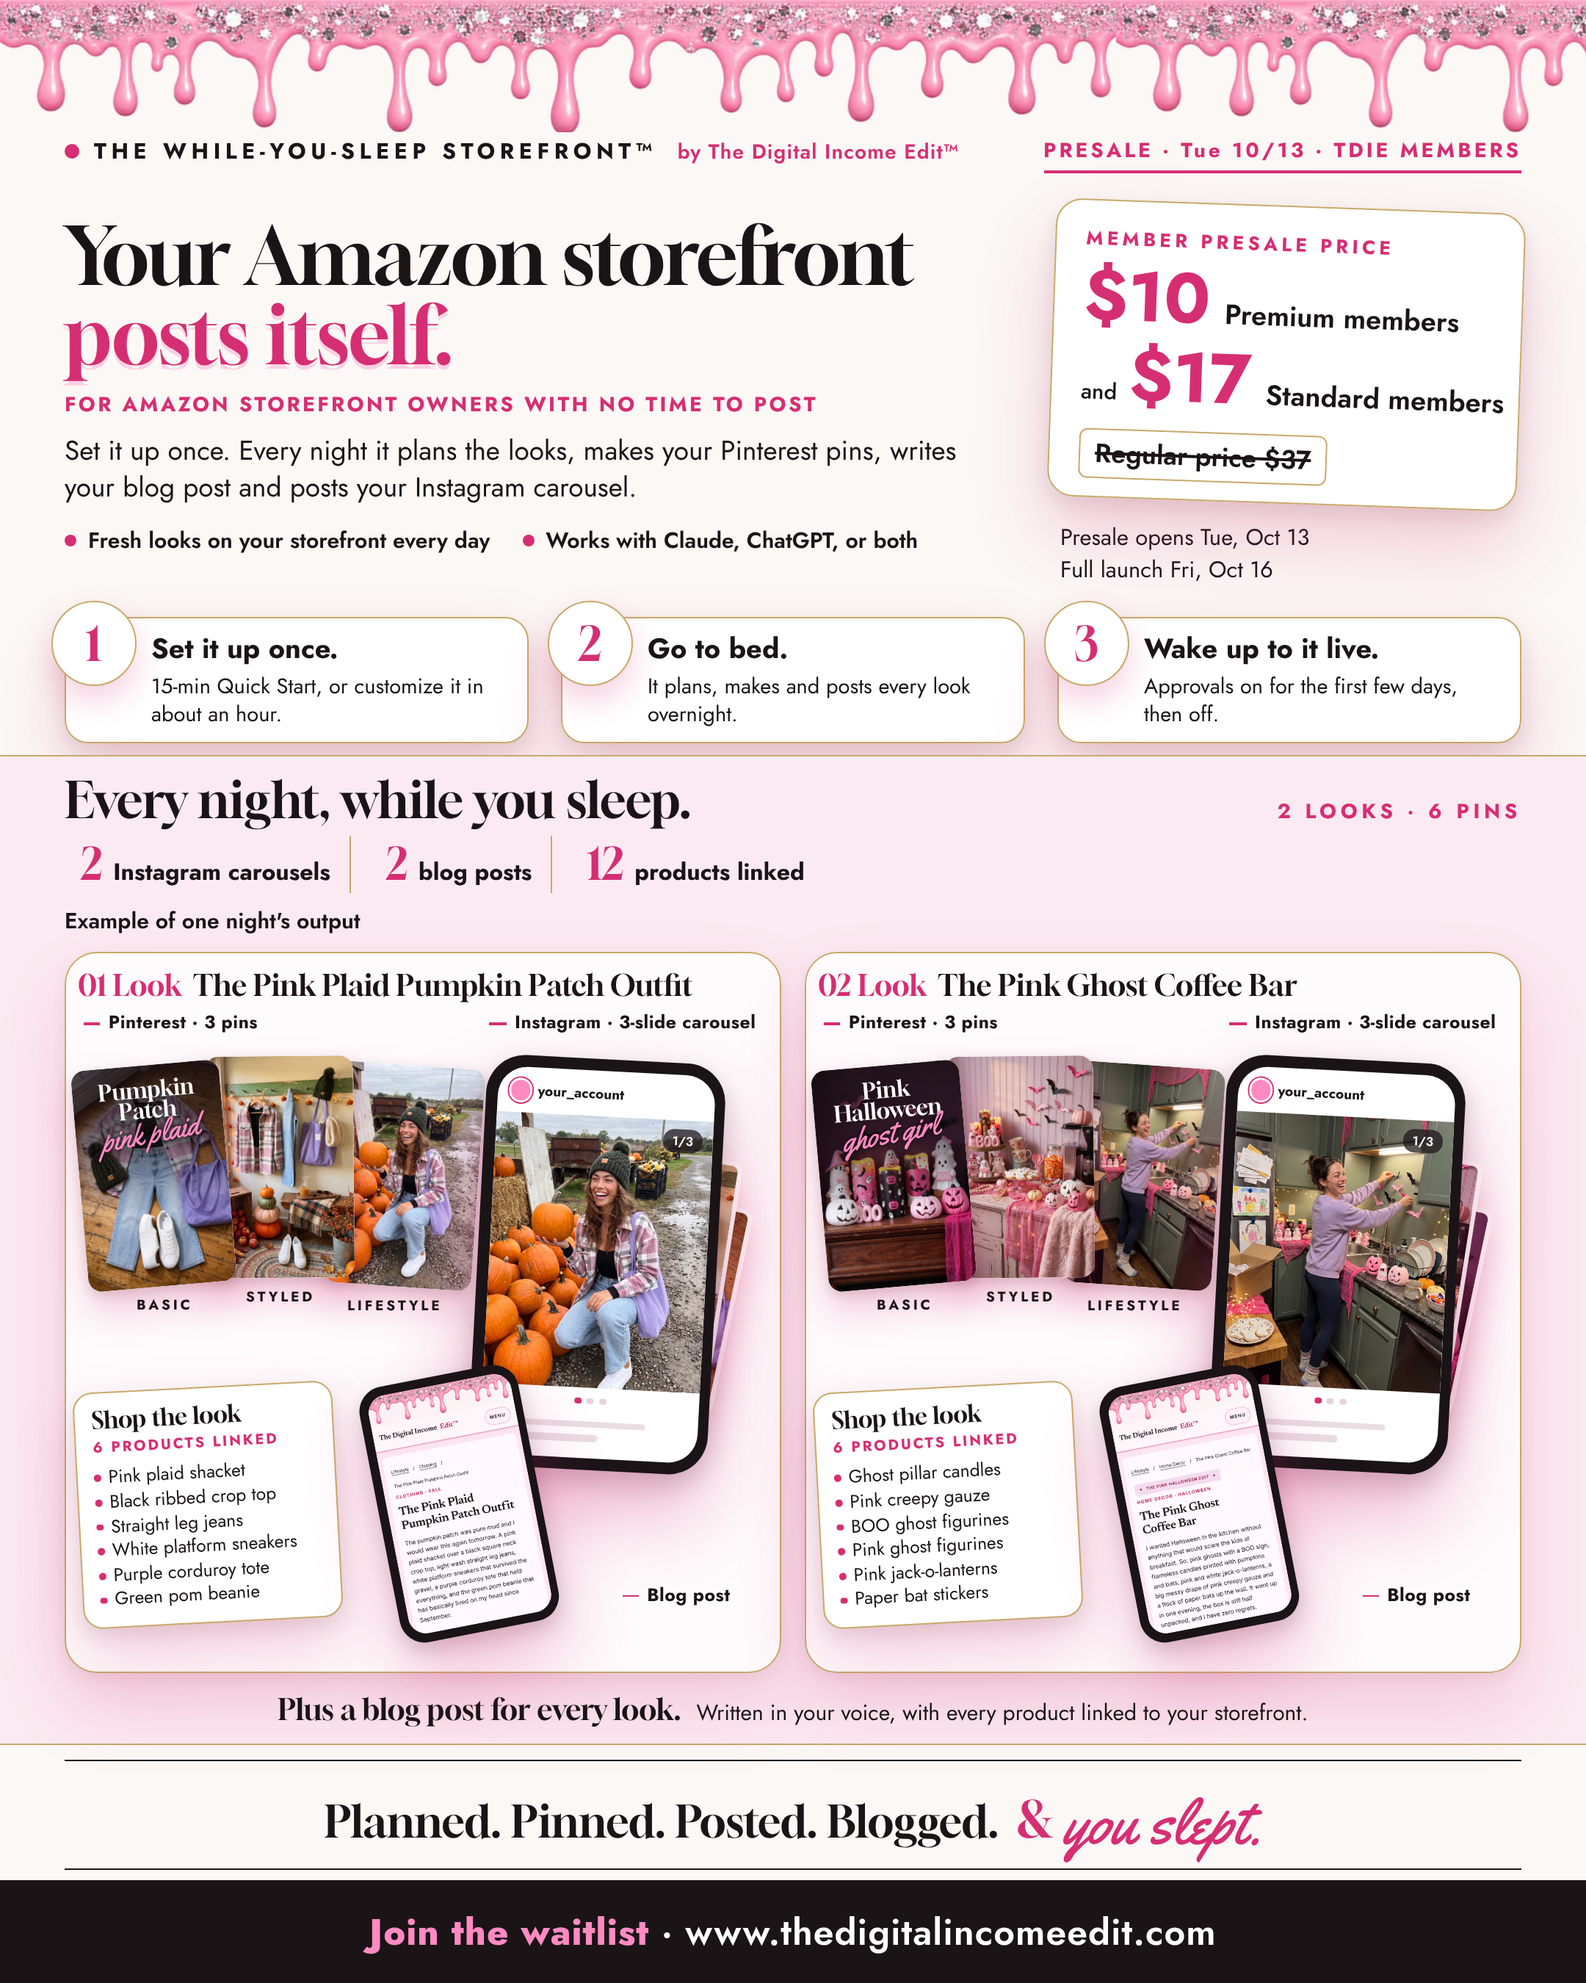
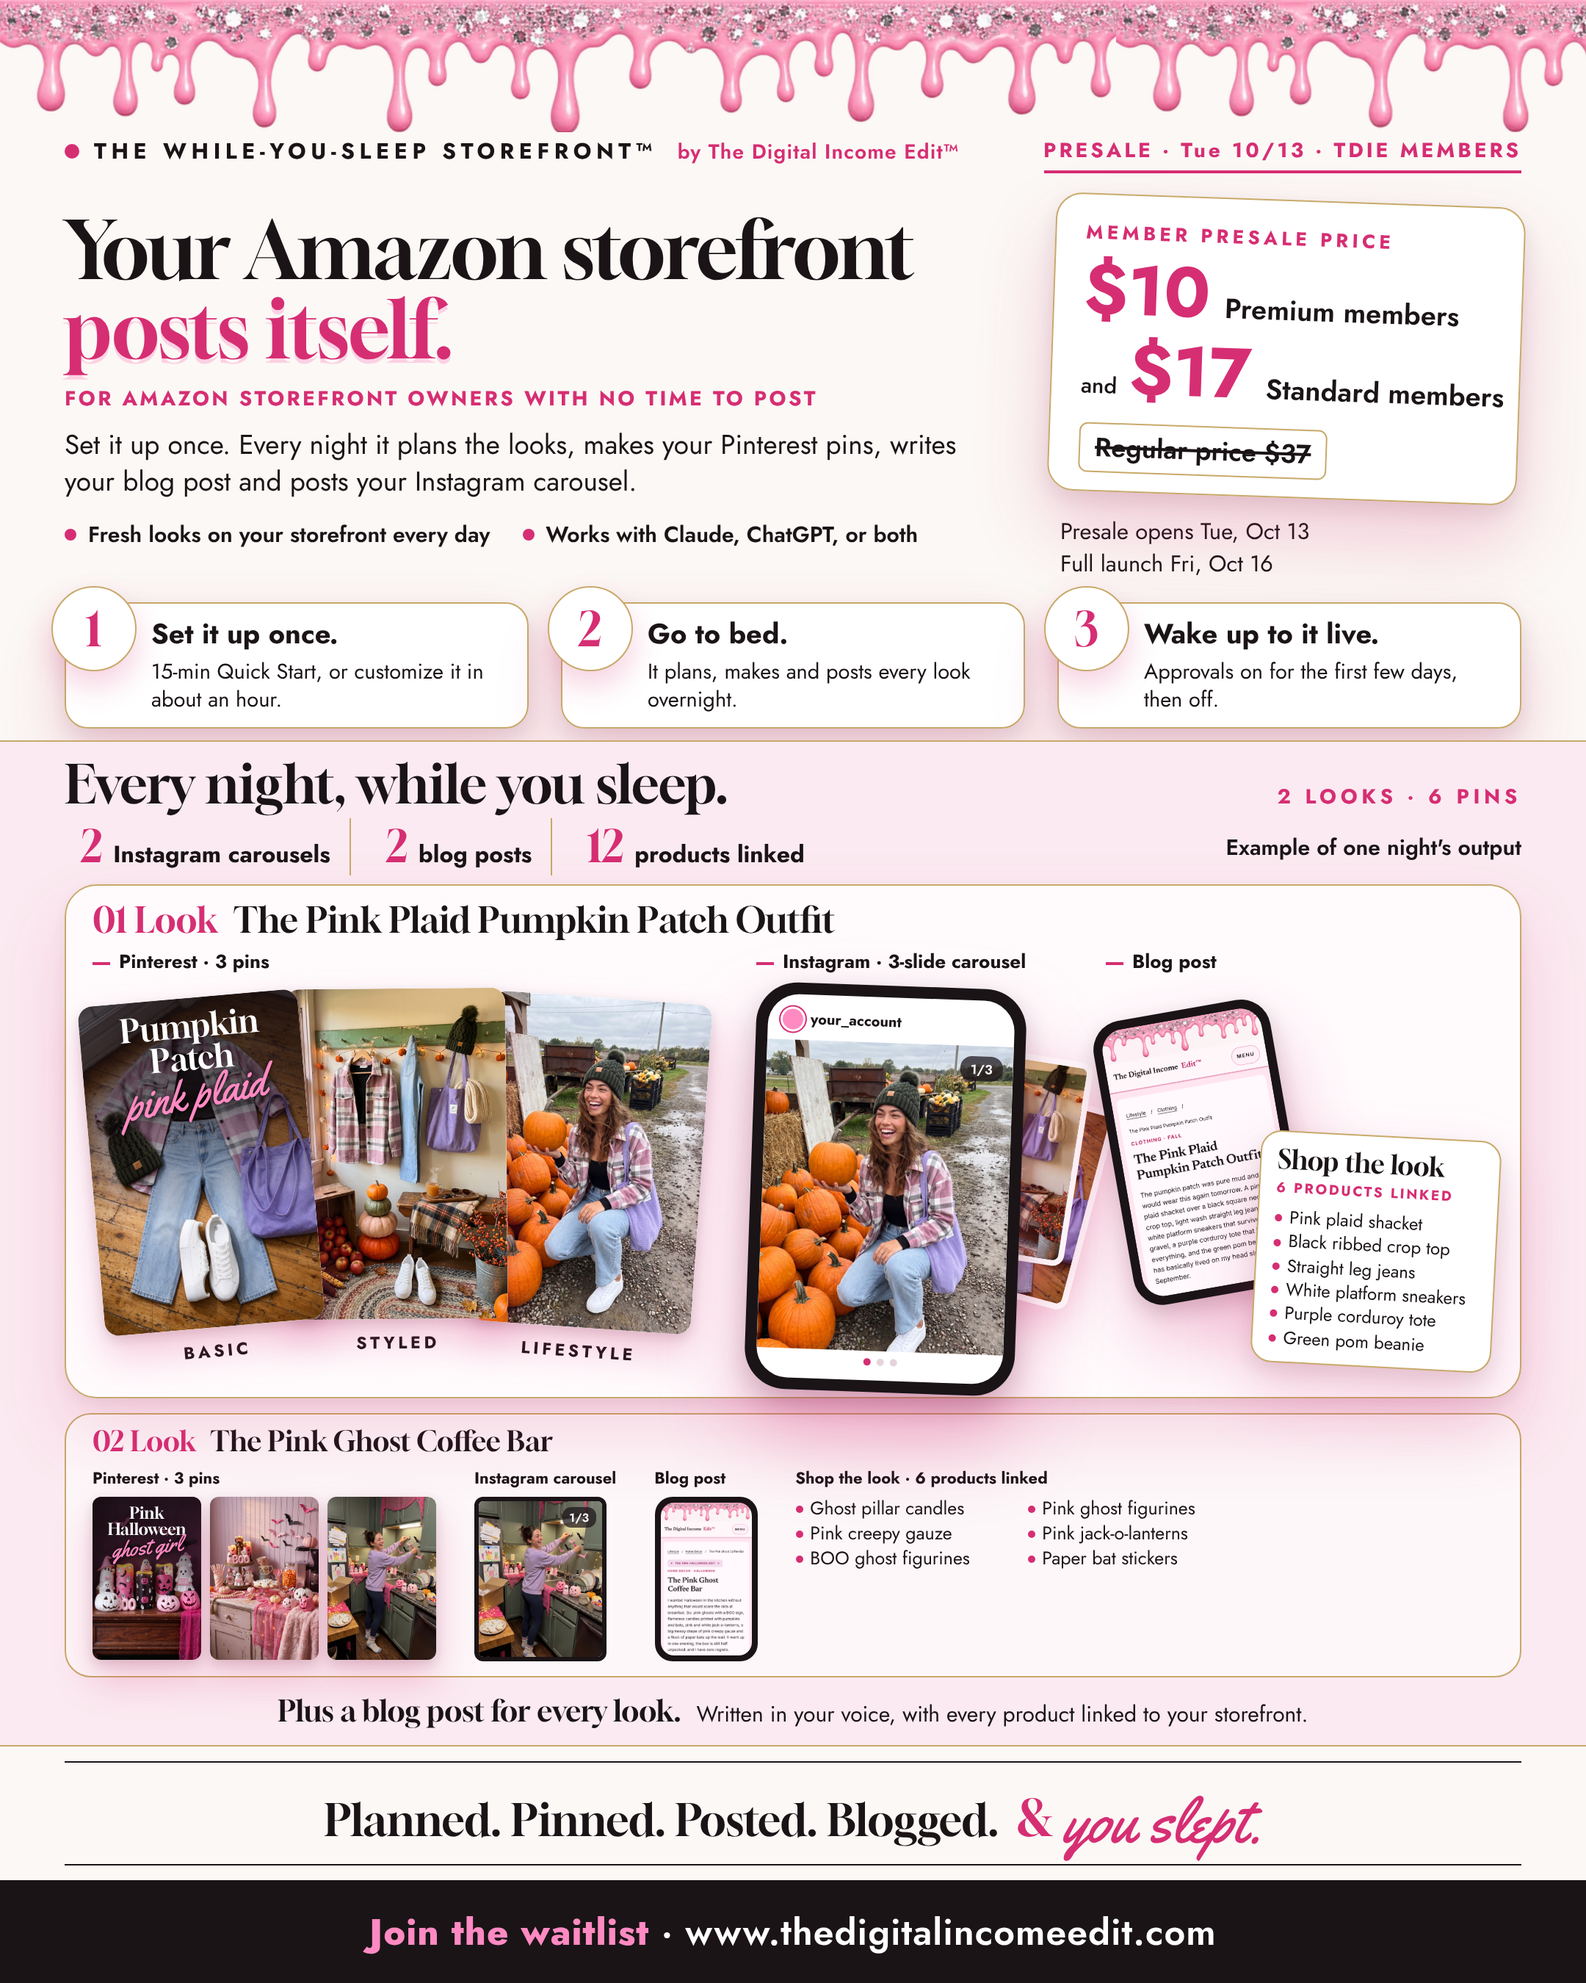
WYS poster: one focal look
Look 01 is now the large hero composition; on Facebook Look 02 is a compact
supporting strip so the eye has one place to land. Skool keeps both looks
full size, stacked.

Claude-Session: https://claude.ai/code/session_01PnXq8563XBZe9JqR7UM4ct

diff --git a/ops/posters/wys-presale-2026-10/poster.html b/ops/posters/wys-presale-2026-10/poster.html
@@ -500,6 +500,81 @@ h2 { font-family:"Gloock",serif; font-weight:400; font-size:38px; line-height:1.
 .fb .sidenote { font-size:15.5px; }
 .skool .example { font-size:18px; }
 .skool .kicker .by { font-size:16px; }
+
+/* ===== focal hierarchy: one hero look ===== */
+.looks2 { margin-top:10px; }
+.big { position:relative; background:rgba(255,255,255,0.82); border:1px solid var(--gold); border-radius:22px; padding:12px 18px 10px; box-shadow:0 24px 48px rgba(214,46,115,0.16), 0 4px 10px rgba(26,20,23,0.06); }
+.bhead, .mhead { font-family:"Gloock",serif; font-size:24px; line-height:1.1; }
+.bhead .n, .mhead .n, .mhead .plus { color:var(--hot); margin-right:6px; }
+.stage { position:relative; height:330px; margin-top:6px; }
+.lab { position:absolute; top:0; font-weight:700; font-size:13px; padding-left:18px; white-space:nowrap; z-index:30; }
+.lab::before { content:""; position:absolute; left:0; top:50%; width:12px; height:2px; background:var(--hot); }
+.bp { position:absolute; top:34px; width:150px; }
+.bp .pin { width:150px; }
+.bp.p1 { left:0; transform:rotate(-5deg); z-index:3; }
+.bp.p2 { left:132px; top:28px; transform:rotate(-0.5deg); z-index:2; }
+.bp.p3 { left:264px; transform:rotate(4deg); z-index:1; }
+.bp .cap { font-size:11.5px; margin-top:8px; }
+.bp .pin-basic .lockup .serif { font-size:22px; } .bp .pin-basic .lockup .script { font-size:30px; }
+.big-ig { position:absolute; left:452px; top:26px; width:196px; z-index:10; background:var(--ink); border-radius:28px; padding:8px; transform:rotate(2deg); box-shadow:0 30px 56px rgba(214,46,115,0.34), 0 8px 18px rgba(26,20,23,0.2); }
+.big-ig .scr { background:#fff; border-radius:21px; overflow:hidden; padding:9px 0 10px; }
+.big-ig .ig-top { padding:0 10px; margin-bottom:7px; font-size:10px; }
+.bpeek { position:absolute; width:120px; aspect-ratio:4/5; overflow:hidden; border-radius:8px; border:4px solid #fff; box-shadow:0 14px 28px rgba(214,46,115,0.25); }
+.bpeek img { width:100%; height:100%; object-fit:cover; display:block; }
+.bpeek.k2 { left:574px; top:70px; transform:rotate(9deg); z-index:6; }
+.bpeek.k3 { left:584px; top:96px; transform:rotate(15deg); z-index:5; }
+.bblog { position:absolute; left:716px; top:30px; transform:rotate(-4deg); z-index:8; }
+.bblog .phone { position:relative; width:128px; padding:6px; border-radius:20px; }
+.bblog .phone img { border-radius:15px; }
+.bshop { position:absolute; left:800px; top:118px; width:172px; z-index:12; background:#fff; border:1px solid var(--gold); border-radius:14px; padding:10px 12px 9px; transform:rotate(3deg); box-shadow:var(--pinkshadow); }
+.bshop .ih { font-family:"Gloock",serif; font-size:18px; line-height:1; }
+.bshop .is { font-weight:700; font-size:9.5px; letter-spacing:0.14em; text-transform:uppercase; color:var(--hot); margin:4px 0 5px; }
+.bshop ul, .mshop ul { list-style:none; }
+.bshop li, .mshop li { font-size:12.5px; line-height:1.36; padding-left:10px; position:relative; }
+.bshop li::before, .mshop li::before { content:""; position:absolute; left:0; top:0.52em; width:5px; height:5px; border-radius:50%; background:var(--hot); }
+.mini { margin-top:12px; background:rgba(255,255,255,0.6); border:1px solid var(--gold); border-radius:18px; padding:10px 18px 12px; }
+.mhead { font-size:19px; }
+.mrow { display:grid; grid-template-columns:auto auto auto minmax(0,1fr); gap:22px; margin-top:6px; align-items:start; }
+.mlab { font-weight:700; font-size:11px; margin-bottom:5px; white-space:nowrap; }
+.mpins { display:flex; gap:6px; }
+.mpins .pin { width:74px; border-radius:6px; }
+.mpins .pin-basic .lockup { padding-top:6px; }
+.mpins .pin-basic .lockup .serif { font-size:11px; } .mpins .pin-basic .lockup .script { font-size:15px; margin-top:-1px; }
+.mig { position:relative; width:90px; aspect-ratio:4/5; border-radius:6px; overflow:hidden; border:3px solid var(--ink); }
+.mig img { width:100%; height:100%; object-fit:cover; display:block; }
+.mig .no { position:absolute; right:4px; top:4px; background:rgba(26,20,23,0.72); color:#fff; font-size:8px; font-weight:600; padding:1px 5px; border-radius:6px; }
+.mphone { width:62px; background:var(--ink); border-radius:12px; padding:4px; }
+.mphone img { display:block; width:100%; border-radius:9px; max-height:104px; object-fit:cover; object-position:top; }
+.mshop ul { columns:2; column-gap:14px; }
+.fb .skool-only { display:none; }
+.skool .mini { display:none; }
+.skool .big + .big { margin-top:34px; }
+.skool .big { zoom:1; }
+
+.fb .sec-top + .example { margin-top:2px; }
+
+.stage { height:300px; }
+.big-ig { width:184px; left:448px; }
+.bpeek { width:112px; } .bpeek.k2 { left:560px; } .bpeek.k3 { left:570px; }
+.bblog { left:686px; top:34px; } .bblog .phone { width:122px; }
+.bshop { left:792px; top:128px; width:164px; padding:9px 11px 8px; }
+.bshop li { font-size:12px; }
+.mrow { grid-template-columns:auto auto auto auto; justify-content:start; gap:26px; }
+.mshop ul { columns:2; column-gap:18px; column-width:140px; }
+.mphone { width:70px; } .mphone img { max-height:112px; }
+.mhead .plus { font-size:24px; }
+.fb .steps { padding:10px 0 8px; }
+.fb .hero { padding:0 0 4px; }
+.fb .sec-top h2 { font-size:36px; }
+.fb .panel { padding-top:10px; }
+.fb .blogline { margin-top:6px; }
+.fb .mini { margin-top:10px; padding:8px 18px 10px; }
+.fb .phrase { padding:6px 0 4px; }
+.fb .big { padding:10px 18px 6px; }
+.fb .example { text-align:right; margin-top:-30px; position:relative; }
+.fb .looks2 { margin-top:14px; }
+.fb .tags { margin-top:4px; }
+.skool .stage { height:340px; }
 </style>
 </head>
 <body>
@@ -545,45 +620,51 @@ h2 { font-family:"Gloock",serif; font-weight:400; font-size:38px; line-height:1.
       </div>
 
       <div class="example">Example of one night's output</div>
-      <div class="comps">
-        <div class="lookcard"><div class="comp">
-          <div class="c-head"><span class="n">01 Look</span><span class="t">The Pink Plaid Pumpkin Patch Outfit</span></div>
-          <span class="ctag" style="left:4px;top:30px">Pinterest · 3 pins</span>
-          <div class="cpin p1"><div class="pin pin-basic"><img src="img/pink-plaid-pumpkin-patch-outfit-basic.jpg" alt=""><div class="lockup"><span class="serif">Pumpkin<br>Patch</span><span class="script">pink plaid</span></div></div><div class="cap">BASIC</div></div>
-          <div class="cpin p2"><div class="pin"><img src="img/pink-plaid-pumpkin-patch-outfit-styled.jpg" alt=""></div><div class="cap">STYLED</div></div>
-          <div class="cpin p3"><div class="pin"><img src="img/pink-plaid-pumpkin-patch-outfit-lifestyle.png" alt="" style="object-position:62% 50%"></div><div class="cap">LIFESTYLE</div></div>
-          <div class="peek pk2"><img src="img/pink-plaid-pumpkin-patch-outfit-styled.jpg" alt=""></div>
-          <div class="peek pk3"><img src="img/pink-plaid-pumpkin-patch-outfit-basic.jpg" alt=""></div>
-          <span class="ctag" style="right:0;top:30px">Instagram · 3-slide carousel</span>
-          <div class="igphone"><div class="scr">
-            <div class="ig-top"><span class="av"></span>your_account</div>
-            <div class="ig-main"><img src="img/pink-plaid-pumpkin-patch-outfit-lifestyle.png" alt="" style="object-position:62% 50%"><span class="no">1/3</span></div>
-            <div class="ig-dots"><i class="on"></i><i></i><i></i></div>
-            <div class="ig-lines"><i style="width:80%"></i><i style="width:55%"></i></div>
-          </div></div>
-          <div class="cidea"><div class="ih">Shop the look</div><div class="is">6 products linked</div><ul><li>Pink plaid shacket</li><li>Black ribbed crop top</li><li>Straight leg jeans</li><li>White platform sneakers</li><li>Purple corduroy tote</li><li>Green pom beanie</li></ul></div>
-          <div class="cblog"><div class="phone"><img src="img/blog-pink-plaid-pumpkin-patch-outfit.png" alt=""></div></div>
-          <span class="ctag" style="left:390px;top:440px">Blog post</span>
-        </div></div>
-        <div class="lookcard"><div class="comp">
-          <div class="c-head"><span class="n">02 Look</span><span class="t">The Pink Ghost Coffee Bar</span></div>
-          <span class="ctag" style="left:4px;top:30px">Pinterest · 3 pins</span>
-          <div class="cpin p1"><div class="pin pin-basic"><img src="img/pink-ghost-coffee-bar-basic.jpg" alt=""><div class="lockup"><span class="serif">Pink<br>Halloween</span><span class="script">ghost girl</span></div></div><div class="cap">BASIC</div></div>
-          <div class="cpin p2"><div class="pin"><img src="img/pink-ghost-coffee-bar-styled.jpg" alt=""></div><div class="cap">STYLED</div></div>
-          <div class="cpin p3"><div class="pin"><img src="img/pink-ghost-coffee-bar-lifestyle.png" alt="" style="object-position:60% 50%"></div><div class="cap">LIFESTYLE</div></div>
-          <div class="peek pk2"><img src="img/pink-ghost-coffee-bar-styled.jpg" alt=""></div>
-          <div class="peek pk3"><img src="img/pink-ghost-coffee-bar-basic.jpg" alt=""></div>
-          <span class="ctag" style="right:0;top:30px">Instagram · 3-slide carousel</span>
-          <div class="igphone"><div class="scr">
-            <div class="ig-top"><span class="av"></span>your_account</div>
-            <div class="ig-main"><img src="img/pink-ghost-coffee-bar-lifestyle.png" alt="" style="object-position:60% 50%"><span class="no">1/3</span></div>
-            <div class="ig-dots"><i class="on"></i><i></i><i></i></div>
-            <div class="ig-lines"><i style="width:80%"></i><i style="width:55%"></i></div>
-          </div></div>
-          <div class="cidea"><div class="ih">Shop the look</div><div class="is">6 products linked</div><ul><li>Ghost pillar candles</li><li>Pink creepy gauze</li><li>BOO ghost figurines</li><li>Pink ghost figurines</li><li>Pink jack-o-lanterns</li><li>Paper bat stickers</li></ul></div>
-          <div class="cblog"><div class="phone"><img src="img/blog-pink-ghost-coffee-bar.png" alt=""></div></div>
-          <span class="ctag" style="left:390px;top:440px">Blog post</span>
-        </div></div>
+      <div class="looks2">
+        <div class="big ">
+          <div class="bhead"><span class="n">01 Look</span> The Pink Plaid Pumpkin Patch Outfit</div>
+          <div class="stage">
+            <span class="lab" style="left:0">Pinterest · 3 pins</span>
+            <div class="bp p1"><div class="pin pin-basic"><img src="img/pink-plaid-pumpkin-patch-outfit-basic.jpg" alt=""><div class="lockup"><span class="serif">Pumpkin<br>Patch</span><span class="script">pink plaid</span></div></div><div class="cap">BASIC</div></div>
+            <div class="bp p2"><div class="pin"><img src="img/pink-plaid-pumpkin-patch-outfit-styled.jpg" alt=""></div><div class="cap">STYLED</div></div>
+            <div class="bp p3"><div class="pin"><img src="img/pink-plaid-pumpkin-patch-outfit-lifestyle.png" alt="" style="object-position:62% 50%"></div><div class="cap">LIFESTYLE</div></div>
+            <span class="lab" style="left:452px">Instagram · 3-slide carousel</span>
+            <div class="bpeek k2"><img src="img/pink-plaid-pumpkin-patch-outfit-styled.jpg" alt=""></div>
+            <div class="bpeek k3"><img src="img/pink-plaid-pumpkin-patch-outfit-basic.jpg" alt=""></div>
+            <div class="big-ig"><div class="scr"><div class="ig-top"><span class="av"></span>your_account</div><div class="ig-main"><img src="img/pink-plaid-pumpkin-patch-outfit-lifestyle.png" alt="" style="object-position:62% 50%"><span class="no">1/3</span></div><div class="ig-dots"><i class="on"></i><i></i><i></i></div></div></div>
+            <span class="lab" style="left:690px">Blog post</span>
+            <div class="bblog"><div class="phone"><img src="img/blog-pink-plaid-pumpkin-patch-outfit.png" alt=""></div></div>
+            <div class="bshop"><div class="ih">Shop the look</div><div class="is">6 products linked</div><ul><li>Pink plaid shacket</li><li>Black ribbed crop top</li><li>Straight leg jeans</li><li>White platform sneakers</li><li>Purple corduroy tote</li><li>Green pom beanie</li></ul></div>
+          </div>
+        </div>
+        <div class="big skool-only">
+          <div class="bhead"><span class="n">02 Look</span> The Pink Ghost Coffee Bar</div>
+          <div class="stage">
+            <span class="lab" style="left:0">Pinterest · 3 pins</span>
+            <div class="bp p1"><div class="pin pin-basic"><img src="img/pink-ghost-coffee-bar-basic.jpg" alt=""><div class="lockup"><span class="serif">Pink<br>Halloween</span><span class="script">ghost girl</span></div></div><div class="cap">BASIC</div></div>
+            <div class="bp p2"><div class="pin"><img src="img/pink-ghost-coffee-bar-styled.jpg" alt=""></div><div class="cap">STYLED</div></div>
+            <div class="bp p3"><div class="pin"><img src="img/pink-ghost-coffee-bar-lifestyle.png" alt="" style="object-position:60% 50%"></div><div class="cap">LIFESTYLE</div></div>
+            <span class="lab" style="left:452px">Instagram · 3-slide carousel</span>
+            <div class="bpeek k2"><img src="img/pink-ghost-coffee-bar-styled.jpg" alt=""></div>
+            <div class="bpeek k3"><img src="img/pink-ghost-coffee-bar-basic.jpg" alt=""></div>
+            <div class="big-ig"><div class="scr"><div class="ig-top"><span class="av"></span>your_account</div><div class="ig-main"><img src="img/pink-ghost-coffee-bar-lifestyle.png" alt="" style="object-position:60% 50%"><span class="no">1/3</span></div><div class="ig-dots"><i class="on"></i><i></i><i></i></div></div></div>
+            <span class="lab" style="left:690px">Blog post</span>
+            <div class="bblog"><div class="phone"><img src="img/blog-pink-ghost-coffee-bar.png" alt=""></div></div>
+            <div class="bshop"><div class="ih">Shop the look</div><div class="is">6 products linked</div><ul><li>Ghost pillar candles</li><li>Pink creepy gauze</li><li>BOO ghost figurines</li><li>Pink ghost figurines</li><li>Pink jack-o-lanterns</li><li>Paper bat stickers</li></ul></div>
+          </div>
+        </div>
+        <div class="mini">
+          <div class="mhead"><span class="n">02 Look</span> The Pink Ghost Coffee Bar</div>
+          <div class="mrow">
+            <div class="mcol"><div class="mlab">Pinterest · 3 pins</div><div class="mpins">
+              <div class="pin pin-basic"><img src="img/pink-ghost-coffee-bar-basic.jpg" alt=""><div class="lockup"><span class="serif">Pink<br>Halloween</span><span class="script">ghost girl</span></div></div>
+              <div class="pin"><img src="img/pink-ghost-coffee-bar-styled.jpg" alt=""></div>
+              <div class="pin"><img src="img/pink-ghost-coffee-bar-lifestyle.png" alt="" style="object-position:60% 50%"></div></div></div>
+            <div class="mcol"><div class="mlab">Instagram carousel</div><div class="mig"><img src="img/pink-ghost-coffee-bar-lifestyle.png" alt="" style="object-position:60% 50%"><span class="no">1/3</span></div></div>
+            <div class="mcol"><div class="mlab">Blog post</div><div class="mphone"><img src="img/blog-pink-ghost-coffee-bar.png" alt=""></div></div>
+            <div class="mcol mshop"><div class="mlab">Shop the look · 6 products linked</div><ul><li>Ghost pillar candles</li><li>Pink creepy gauze</li><li>BOO ghost figurines</li><li>Pink ghost figurines</li><li>Pink jack-o-lanterns</li><li>Paper bat stickers</li></ul></div>
+          </div>
+        </div>
       </div>
       <div class="blogline"><b>Plus a blog post for every look.</b> Written in your voice, with every product linked to your storefront.</div>
     </div>
